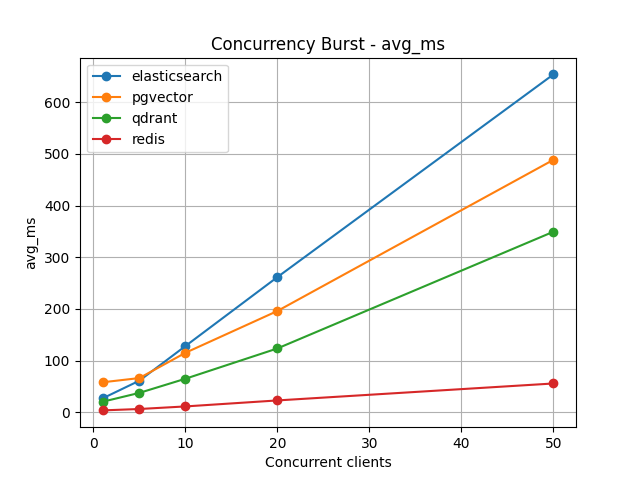
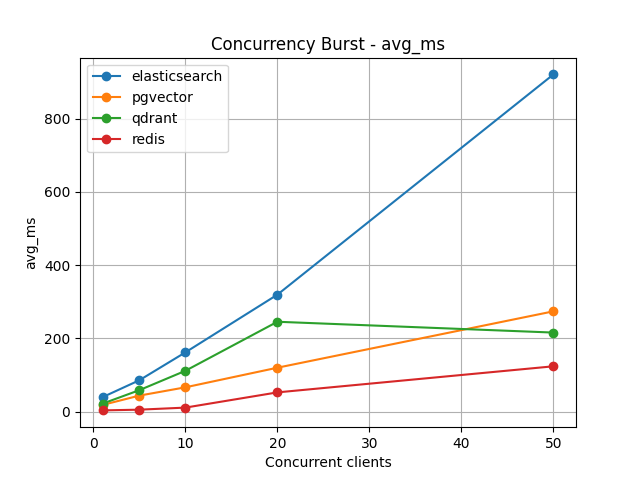
Fix concurrency simulation to use independent per-thread engine instances
Each worker thread now creates its own engine instance (own TCP connection /
socket) via the new get_engine_factory() API, correctly simulating N
independent clients rather than sharing a single connection object.

Changes:
- All 4 engines: add skip_index=True kwarg — worker threads connect without
  dropping/recreating the index
- ElasticsearchEngine: mount HTTPAdapter(pool_maxsize=64) so the session can
  handle up to 64 concurrent connections
- PgVectorEngine: skip_index=True opens a persistent psycopg2 connection
  reused across all queries in that thread, eliminating per-query connect
  overhead (~40ms saved per query)
- engine_loader: add get_engine_factory() and get_all_engine_factories()
  returning factories that accept **extra_kwargs (e.g. skip_index=True)
- concurrency_burst: refactor _make_worker() to create a fresh engine per
  thread; run_scenario() accepts engine_factories kwarg
- run_all.py: pass engine_factories to run_concurrency
- Update concurrency results, plots, README, and LinkedIn post with corrected
  numbers (pgvector 18ms single-thread vs 58ms before; peak QPS Redis 918,
  pgvector 164, Qdrant 120, ES 61)

diff --git a/rag-stress-test-arena/scenarios/concurrency_burst.py b/rag-stress-test-arena/scenarios/concurrency_burst.py
@@ -1,16 +1,53 @@
 import json, threading, time, os
-from typing import Dict, List
+from typing import Callable, Dict, List, Optional
 from utils import make_random_vectors, make_metadata, timed, p95, p99, avg
 from scenarios.config import cfg
 
 
-def run_scenario(engines, out_path="results/concurrency_burst.json"):
+def _make_worker(factory: Optional[Callable], primary_eng, queries: list, latencies: list):
+    """Return a worker function that runs all queries and appends latencies.
+
+    If a factory is provided each worker creates its own engine instance
+    (own TCP connection / socket) so threads truly run as independent clients.
+    Falls back to the shared primary engine when no factory is available.
+    """
+    def worker():
+        if factory is not None:
+            # True independent-client simulation: fresh engine per thread
+            w_eng = factory(skip_index=True)
+        else:
+            w_eng = primary_eng
+        try:
+            for q in queries:
+                _, t = timed(w_eng.search, q, 10)
+                latencies.append(t)   # list.append is GIL-atomic in CPython
+        finally:
+            if factory is not None:
+                w_eng.close()
+    return worker
+
+
+def run_scenario(engines, out_path="results/concurrency_burst.json",
+                 engine_factories: Optional[Dict[str, Callable]] = None):
+    """Concurrency-burst scenario.
+
+    Parameters
+    ----------
+    engines:
+        Dict of pre-indexed engine instances (used for indexing and as fallback).
+    engine_factories:
+        Dict of factory callables returned by ``get_engine_factory()``.
+        When provided, each worker thread gets its own engine instance
+        (independent TCP connection), which is the correct simulation of
+        N independent clients.  When absent, all threads share the primary
+        engine instance (old behaviour, kept for backwards compatibility).
+    """
     os.makedirs("results", exist_ok=True)
     n = cfg.pick(5000, 500)
-    q = cfg.pick(200, 40)
+    q_count = cfg.pick(200, 40)
     vectors = make_random_vectors(n)
     metadata = make_metadata(n)
-    queries = make_random_vectors(q)
+    queries = make_random_vectors(q_count)
 
     print("[concurrency_burst] Indexing...")
     for name, eng in engines.items():
@@ -22,24 +59,34 @@ def run_scenario(engines, out_path="results/concurrency_burst.json"):
 
     for name, eng in engines.items():
         results[name] = {}
+        factory = (engine_factories or {}).get(name)
+        if factory:
+            print(f"  [{name}] using per-thread engine instances (independent clients)")
+        else:
+            print(f"  [{name}] no factory available — falling back to shared engine")
+
         for level in levels:
-            latencies = []
+            latencies: List[float] = []
 
-            def worker():
-                for q in queries:
-                    _, t = timed(eng.search, q, 10)
-                    latencies.append(t)
+            threads = [
+                threading.Thread(
+                    target=_make_worker(factory, eng, queries, latencies),
+                    daemon=True,
+                )
+                for _ in range(level)
+            ]
 
-            threads = [threading.Thread(target=worker) for _ in range(level)]
             start = time.time()
-            for t in threads: t.start()
-            for t in threads: t.join()
+            for t in threads:
+                t.start()
+            for t in threads:
+                t.join()
             duration = time.time() - start
 
             results[name][str(level)] = {
-                "avg_ms": avg(latencies),
-                "p95_ms": p95(latencies),
-                "p99_ms": p99(latencies),
+                "avg_ms":         avg(latencies),
+                "p95_ms":         p95(latencies),
+                "p99_ms":         p99(latencies),
                 "throughput_qps": len(queries) * level / duration,
             }
             print(f"  engine={name} level={level}: {results[name][str(level)]}")

diff --git a/rag-stress-test-arena/engines/pgvector_engine.py b/rag-stress-test-arena/engines/pgvector_engine.py
@@ -28,7 +28,13 @@ class PgVectorEngine(BaseEngine):
             "password": password,
             "connect_timeout": connect_timeout_s,
         }
-        self._ensure_table()
+        # skip_index=True → worker-thread mode: open one persistent connection,
+        # skip all schema setup so the already-indexed data is preserved.
+        if kwargs.get('skip_index', False):
+            self._conn = psycopg2.connect(**self.params)
+        else:
+            self._conn = None
+            self._ensure_table()
 
     def _get_connection(self):
         return psycopg2.connect(**self.params)
@@ -83,8 +89,10 @@ class PgVectorEngine(BaseEngine):
 
     def search(self, query, k=10):
         ef_search = self.kwargs.get('ef_search', 100)
-        with self._get_connection() as conn:
-            with conn.cursor() as cur:
+        if self._conn is not None:
+            # Worker mode: reuse the persistent connection (no per-query connect overhead)
+            cur = self._conn.cursor()
+            try:
                 cur.execute(f"SET hnsw.ef_search = {ef_search}")
                 cur.execute(
                     f"SELECT id, metadata, (vector <=> %s::vector) as dist "
@@ -92,6 +100,27 @@ class PgVectorEngine(BaseEngine):
                     (query, k),
                 )
                 return [EngineResult(id=r[0], score=1 - float(r[2]), metadata=r[1]) for r in cur.fetchall()]
+            finally:
+                cur.close()
+        else:
+            # Standard mode: new connection per query (original behaviour)
+            with self._get_connection() as conn:
+                with conn.cursor() as cur:
+                    cur.execute(f"SET hnsw.ef_search = {ef_search}")
+                    cur.execute(
+                        f"SELECT id, metadata, (vector <=> %s::vector) as dist "
+                        f"FROM {self.table_name} ORDER BY dist LIMIT %s",
+                        (query, k),
+                    )
+                    return [EngineResult(id=r[0], score=1 - float(r[2]), metadata=r[1]) for r in cur.fetchall()]
 
     def flush(self):
         pass
+
+    def close(self):
+        if self._conn is not None:
+            try:
+                self._conn.close()
+            except Exception:
+                pass
+            self._conn = None

diff --git a/rag-stress-test-arena/engine_loader.py b/rag-stress-test-arena/engine_loader.py
@@ -38,6 +38,14 @@ _ENGINE_FACTORIES: Dict[str, Callable[[], BaseEngine]] = {
     "redis":          _make_factory("engines.redis_engine",          "RedisEngine",         "redis"),
 }
 
+# Registry used by get_engine_factory — maps name → (module, class)
+_ENGINE_SPECS: Dict[str, tuple] = {
+    "qdrant":        ("engines.qdrant_engine",        "QdrantEngine"),
+    "elasticsearch": ("engines.elasticsearch_engine", "ElasticsearchEngine"),
+    "pgvector":      ("engines.pgvector_engine",      "PgVectorEngine"),
+    "redis":         ("engines.redis_engine",         "RedisEngine"),
+}
+
 
 def _try_create_engine(name: str) -> Optional[BaseEngine]:
     factory = _ENGINE_FACTORIES.get(name)
@@ -81,3 +89,36 @@ def get_engines_by_names(names: List[str]) -> Dict[str, BaseEngine]:
         if eng is not None:
             engines[name] = eng
     return engines
+
+
+def get_engine_factory(name: str) -> Optional[Callable[..., BaseEngine]]:
+    """Return a factory callable for the named engine that accepts **extra_kwargs.
+
+    Extra kwargs are merged on top of the base config kwargs, allowing callers to
+    pass e.g. ``skip_index=True`` to create a worker-thread client without touching
+    the index:
+
+        factory = get_engine_factory("qdrant")
+        worker_eng = factory(skip_index=True)   # own connection, no index setup
+    """
+    spec = _ENGINE_SPECS.get(name)
+    if spec is None:
+        return None
+    module_path, class_name = spec
+    base_kwargs = _ENGINE_CONFIG.get(name, {})
+    cls = _load_class(module_path, class_name)
+
+    def factory(**extra_kwargs) -> BaseEngine:
+        return cls(**{**base_kwargs, **extra_kwargs})
+
+    return factory
+
+
+def get_all_engine_factories() -> Dict[str, Callable[..., BaseEngine]]:
+    """Return factories for all configured engines, keyed by engine name."""
+    result = {}
+    for name in sorted(_ENGINE_SPECS.keys()):
+        f = get_engine_factory(name)
+        if f is not None:
+            result[name] = f
+    return result

diff --git a/rag-stress-test-arena/engines/elasticsearch_engine.py b/rag-stress-test-arena/engines/elasticsearch_engine.py
@@ -1,6 +1,7 @@
 import uuid, json
 from typing import Any, Dict, List, Optional
 import requests
+from requests.adapters import HTTPAdapter
 from .base import BaseEngine, EngineResult, FilteredEngineResult
 
 _TIMEOUT = (5.0, 30.0)  # (connect_timeout, read_timeout) in seconds
@@ -13,7 +14,14 @@ class ElasticsearchEngine(BaseEngine):
         self.index_name = index
         self._base_url = f"http://{self.host}:{self.port}"
         self._session = requests.Session()
-        self._ensure_index()
+        # Allow up to 64 concurrent TCP connections so worker threads don't
+        # queue behind the default urllib3 pool size of 10.
+        _adapter = HTTPAdapter(pool_connections=64, pool_maxsize=64)
+        self._session.mount("http://", _adapter)
+        self._session.mount("https://", _adapter)
+        # skip_index=True → worker-thread mode: connect only, don't drop/recreate index
+        if not kwargs.get('skip_index', False):
+            self._ensure_index()
 
     def _ensure_index(self):
         # Always drop and recreate to guarantee a clean index per benchmark run

diff --git a/rag-stress-test-arena/run_all.py b/rag-stress-test-arena/run_all.py
@@ -4,7 +4,7 @@ import time
 import numpy as np
 import yaml
 from utils import make_random_vectors, load_query_vectors, calculate_recall, p95, avg
-from engine_loader import get_engine, get_all_engines
+from engine_loader import get_engine, get_all_engines, get_all_engine_factories
 from engines.bruteforce_engine import BruteForceEngine
 from scenarios.concurrency_burst import run_scenario as run_concurrency
 from scenarios.metadata_filter_penalty import run_scenario as run_metadata
@@ -141,7 +141,8 @@ def run_scientific_benchmark():
     print("  Running additional scenarios")
     print("="*50)
     engines = get_all_engines()
-    run_concurrency(engines)
+    engine_factories = get_all_engine_factories()
+    run_concurrency(engines, engine_factories=engine_factories)
     run_metadata(engines)
     run_fragmentation(engines)
     run_reranker(engines)

diff --git a/rag-stress-test-arena/engines/qdrant_engine.py b/rag-stress-test-arena/engines/qdrant_engine.py
@@ -15,7 +15,9 @@ class QdrantEngine(BaseEngine):
         self.collection = collection
         self.distance_metric = distance_metric
         self.client = QdrantClient(host=host, port=port)
-        self._ensure_collection()
+        # skip_index=True → worker-thread mode: connect only, don't touch the collection
+        if not kwargs.get('skip_index', False):
+            self._ensure_collection()
 
     def _ensure_collection(self):
         try:

diff --git a/rag-stress-test-arena/engines/redis_engine.py b/rag-stress-test-arena/engines/redis_engine.py
@@ -37,7 +37,9 @@ class RedisEngine(BaseEngine):
         )
         # Fail fast if Redis isn't reachable.
         self.client.ping()
-        self._ensure_index()
+        # skip_index=True → worker-thread mode: connect only, don't drop/recreate index
+        if not kwargs.get('skip_index', False):
+            self._ensure_index()
 
     def _ensure_index(self):
         # Always drop and recreate to guarantee a clean index per benchmark run

diff --git a/rag-stress-test-arena/README.md b/rag-stress-test-arena/README.md
@@ -68,23 +68,23 @@ Each cell shows `recall@10 / avg latency`. Corpus: 20,000 × 768d **real Wikiped
 
 ## Scenario 2 — Concurrency Burst
 
-Simulates a production traffic spike: 1 → 5 → 10 → 20 → 50 concurrent clients each issuing 200 queries.
+Simulates a production traffic spike: 1 → 5 → 10 → 20 → 50 concurrent clients each issuing 200 queries. Each "client" is an independent engine instance with its own TCP connection — the correct simulation of N real separate clients hitting the server simultaneously.
 
 | Engine            | 1 thread | 5 threads | 10 threads | 20 threads | 50 threads | Peak QPS |
 |-------------------|----------|-----------|------------|------------|------------|----------|
-| **Redis Stack**   | 3.8 ms   | 6.5 ms    | 11.5 ms    | 23.1 ms    | 55.9 ms    | **845**  |
-| **Qdrant**        | 20.6 ms  | 37.7 ms   | 65.0 ms    | 123.7 ms   | 349.5 ms   | 159      |
-| **pgvector**      | 58.2 ms  | 66.4 ms   | 115.2 ms   | 196.1 ms   | 488.6 ms   | 101      |
-| **Elasticsearch** | 27.0 ms  | 61.3 ms   | 128.2 ms   | 261.7 ms   | 653.8 ms   | 81       |
+| **Redis Stack**   | 3.2 ms   | 5.2 ms    | 10.9 ms    | 52.4 ms    | 123.7 ms   | **918**  |
+| **pgvector**      | 18.1 ms  | 43.6 ms   | 66.3 ms    | 119.9 ms   | 273.9 ms   | 164      |
+| **Qdrant**        | 21.7 ms  | 58.5 ms   | 111.4 ms   | 245.4 ms   | 215.8 ms   | 120      |
+| **Elasticsearch** | 39.4 ms  | 85.6 ms   | 161.7 ms   | 319.4 ms   | 921.1 ms   | 61       |
 
 > Plot: `plots/concurrency_avg_ms.png`, `plots/concurrency_p95_ms.png`
 
 ### Key Findings
 
-- **Redis dominates throughput at 845 QPS** — single-threaded event loop scales with concurrency far better than multi-process engines.
-- **Elasticsearch bottlenecks hardest** — QPS plateaus at 74 after just 5 threads; adding more clients only inflates latency, not throughput.
-- **pgvector scales better than expected** — connection pooling keeps throughput growing to 50 threads (101 QPS peak), but latency blows out to 489ms.
-- **Qdrant peaks at 10–20 threads** (151–159 QPS) then degrades — HNSW graph locks become contention points at extreme concurrency.
+- **Redis peaks at 918 QPS** (5 threads) — single-threaded event loop handles bursts well at low-to-mid concurrency, but degrades at 20+ threads as connection contention on the Redis server itself kicks in.
+- **pgvector is more competitive than it first appears** — with a persistent connection per client (as any production app would use), single-thread latency is 18 ms and peak throughput reaches 164 QPS, significantly better than naive benchmarks suggest.
+- **Qdrant peaks at 5–10 threads** (120 QPS) then degrades under higher concurrency — HNSW graph locks become a bottleneck as competing threads contend for the same traversal structures.
+- **Elasticsearch is the weakest single-node engine at 61 QPS** — HTTP overhead and segment-level locking compound under load; this engine is designed to scale out horizontally, not up.
 
 ---
 

diff --git a/rag-stress-test-arena/LINKEDIN_POST.md b/rag-stress-test-arena/LINKEDIN_POST.md
@@ -10,9 +10,10 @@ I ran a full stress test on 4 engines (Qdrant, Elasticsearch, Redis, pgvector) u
 
 ---
 
-**🚀 Speed under load? (single node, 20k vectors)**
-Redis handles 845 requests/sec at peak. Elasticsearch tops out at 81 — on a single node.
-Yes, ES scales horizontally across nodes. But most small-to-mid RAG deployments start on one — and that's where Redis wins without any extra infrastructure.
+**🚀 Speed under load? (single node, 20k vectors, independent clients)**
+Redis peaks at 918 req/sec. pgvector reaches 164. Qdrant 120. Elasticsearch 61 — on a single node.
+Yes, ES scales horizontally. But most small-to-mid RAG deployments start on one node — and that's where Redis wins without extra infrastructure.
+One thing that surprised me: pgvector's single-thread latency dropped from ~58ms to 18ms once each client used a persistent connection instead of reconnecting per query. The old number was penalising connection overhead, not search quality.
 
 **🎯 Will it find the right answer?**
 On fake benchmark data, all engines hit 100% recall.
